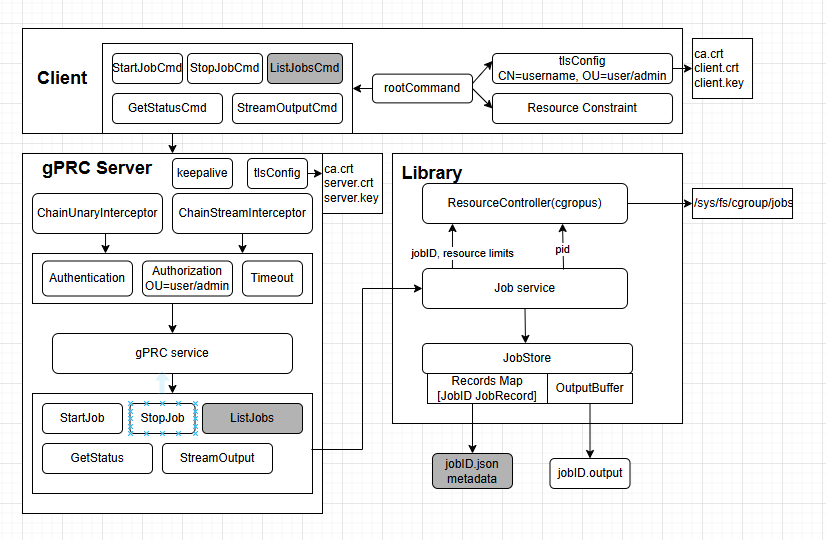
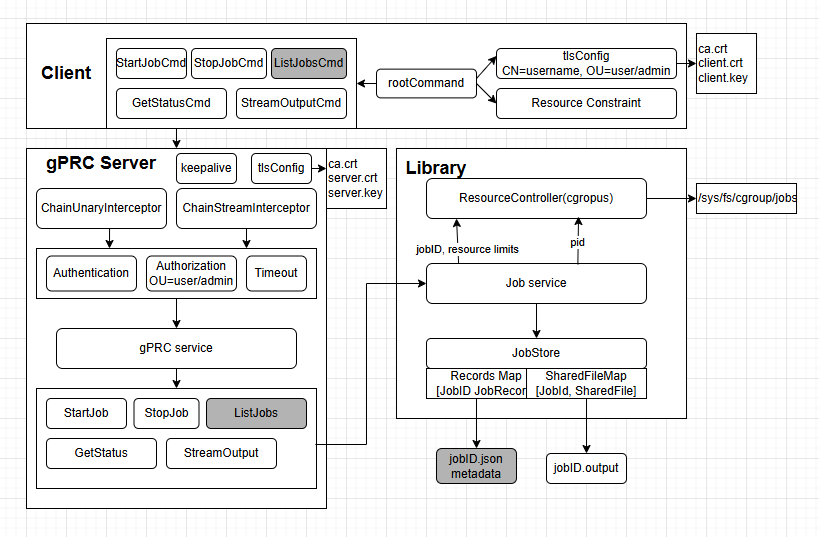
Updated streaming out design part

Changed region(s): [[0.0305, 0.0298, 0.9768, 0.9236], [0.0305, 0.5959, 0.4579, 0.9534]]

diff --git a/docs/design.md b/docs/design.md
@@ -215,34 +215,74 @@ type JobStore struct {
 }
  ```
 ### Output
+For streaming output, there might be one writer and multiple readers for a running job.  To efficiently notify multiple readers when new data is written without busy-waiting or polling, use a sync.Cond (Condition Variable) combined with a sync.RWMutex.This approach allows readers to safely suspend execution and sleep until the writer explicitly signals that new data is available, maximizing CPU efficiency.
 
-A thread-safe OutputBuffer is created to support writing and streaming output, balancing memory usage and performance.
- ```
-type OutputBuffer struct {
-	file   *os.File
-	writer *bufio.Writer
-	reader *bufio.Reader
-	mu     sync.Mutex
+When a job is completed, timeout, failed, or stopped, a done flag is to indicate that no more data will arrive so readers can exit cleanly.
+```
+type SharedFile struct {
+	mu      sync.Mutex
+	cond    *sync.Cond
+	version uint64
+	done    bool
 }
  ```
+
+A writer 
+```
+sharedFile.mu.Lock()
+defer sf.mu.Unlock()
+...
+...
+...
+
+sharedFile.version++        // Update state
+sharedFile.cond.Broadcast() // Wake up all waiting readers efficiently
+```
+
+Readers
+```
+sharedFile.mu.RLock()
+defer sf.mu.RUnlock()
+...
+...
+...
+
+for sharedFile.version == last && !sharedFile.done{
+	sharedFile.cond.Wait()
+}
+
+```
+
 
 ## Testing
 ### Job Lifecycle
 Start a job → get job status → stop the job → stream its output -> list all the jobs
+
 Start a job → stop the job → get job status → stream its output -> list all the jobs
+
 Start a job → stream its output until completion -> list all the jobs
+
 Start multiple jobs → stream their outputs -> list all the jobs
+
 Start multiple jobs → stop a job randomly → get job status → stream their outputs -> list all the jobs
+
 Start multiple jobs → stream their outputs → stop a job randomly -> list all the jobs
 ### Authenication
 Access gRPC server without certificates
+
 Access gRPC server with invalid certificates
+
 Access gRPC server with valid certificates
 ### Authorization
 Access own jobs
+
 Access other jobs using user role
+
 Access other jobs using admin role
+
 ### Resource controls
 Start a job when insufficient resources are available
+
 Pass valid resource limits → check if new jobs are running
+
 Run jobs → check for resource leaks 
